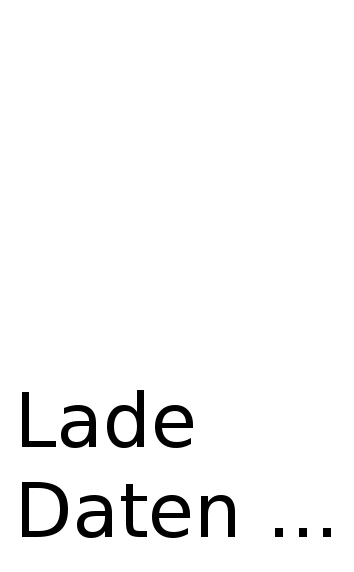
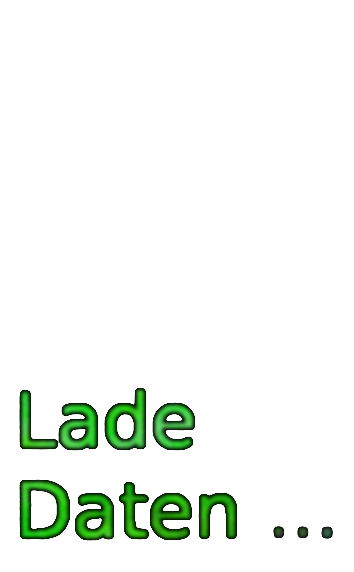
new graphics (flamely background, nicer font in splashscreen, background graphic under grundwerte again?)

diff --git a/midgard/src/table_grundwerte.cc b/midgard/src/table_grundwerte.cc
@@ -5,13 +5,10 @@
 #include <Misc/itos.h>
 #include <SelectMatching.h>
 #include <Misc/Trace.h>
-
-#include<gtkmm/label.h>
-#include<gtkmm/image.h>
-#include<gtkmm/box.h>
+#include <gtkmm/label.h>
+#include <gtkmm/image.h>
+#include <gtkmm/box.h>
 #include <bool_CheckButton.hh>
-extern Glib::RefPtr<Gdk::Pixbuf> MagusImage(const std::string &name);
-
 #include <libmagus/Ausgabe.hh>
 
 void table_grundwerte::init(midgard_CG *h)
@@ -20,6 +17,10 @@ void table_grundwerte::init(midgard_CG *h)
   hauptfenster=h;
   label=0;
 
+  static bool only_once=false;
+  if(!only_once)
+  {
+   only_once=true;
   Vstand.resize(5);
   Vstand[1]="Unfrei";
   Vstand[2]="Volk";  
@@ -31,34 +32,18 @@ void table_grundwerte::init(midgard_CG *h)
   Vhand[1]="Linkshänder"; 
   Vhand[2]="Beidhändig";  
 
-  static bool only_once=false;
-  if(!only_once)
-  {
-   only_once=true;
     bool_CheckButton *_m=manage(new bool_CheckButton(edit_werte,hauptfenster->make_gtk_box(MagusImage("EditChar-trans-50.xpm"),"Werte\neditieren",false,false)));
    _m->set_mode(false);
    eventbox_werte_edit->add(*_m);
    eventbox_werte_edit->show_all();
    _m->signal_toggled().connect(SigC::slot(*this, &table_grundwerte::on_togglebutton_edit_werte_toggled),true);
 
-#if 0   
-   if (!h->get_window()) h->realize();
-   if (h->get_window())
-   {  Glib::RefPtr<Gdk::Pixbuf> pb=MagusImage("Gross_dfr4.light");
-      Glib::RefPtr<Gdk::Pixmap> pm=Gdk::Pixmap::create(h->get_window(),pb->get_width(),pb->get_height(),h->get_window()->get_depth());
-      Glib::RefPtr<Gdk::GC> gc=Gdk::GC::create(pm);
-      pm->draw_pixbuf(gc,pb,0,0,0,0,-1,-1,Gdk::RGB_DITHER_NORMAL,0,0);
-      Glib::RefPtr<Gtk::Style> st=h->grundwerte_background->get_style()->copy();
-      st->set_bg_pixmap(Gtk::STATE_NORMAL,pm);
-      h->grundwerte_background->set_style(st);
-   }
-#endif
   }
   edit_werte=false;
-  edit_sensitive(false);
-  zeige_werte();
+  edit_sensitive(false); // noch weg ?
+  zeige_werte(); // noch weg
 }
-    
+
 void table_grundwerte::zeige_werte(bool typ2_hide)
 { 
   ManuProC::Trace _t(table_grundwerte::trace_channel,__FUNCTION__); 
@@ -116,8 +101,6 @@ void table_grundwerte::zeige_werte(bool typ2_hide)
    combo_hand->set_popdown_strings(Vhand);
    combo_hand->get_entry()->set_text(hauptfenster->getChar()->Hand());
 
-Ausgabe(Ausgabe::Debug,"Herkunft");
-Ausgabe(Ausgabe::Debug,hauptfenster->getChar()->Herkunft()->Name());
    entry_herkunft->set_text(hauptfenster->getChar()->Herkunft()->Name());
    entry_glaube->set_text(hauptfenster->getChar()->Glaube());
    entry_nameC->set_text(hauptfenster->getChar()->Name_Abenteurer());

diff --git a/midgard/src/midgard_CG_glade.cc b/midgard/src/midgard_CG_glade.cc
@@ -1,4 +1,4 @@
-// generated 2003/9/29 10:10:24 CEST by christof@puck.petig-baender.de
+// generated 2003/10/13 0:04:18 CEST by christof@puck.petig-baender.de
 // using glademm V2.0.0c_cvs
 //
 // DO NOT EDIT THIS FILE ! It was created using
@@ -773,7 +773,6 @@ midgard_CG_glade::midgard_CG_glade(
    hbox_status->show();
    handlebox_status->show();
    main_table->show();
-   midgard_CG->show();
    button9->signal_clicked().connect(SigC::slot(*this, &midgard_CG_glade::on_laden));
    button_undo->signal_clicked().connect(SigC::slot(*this, &midgard_CG_glade::on_button_undo_clicked));
    button_undo->signal_secondpressed().connect(SigC::slot(*this, &midgard_CG_glade::on_undo_secondpressed));
@@ -806,6 +805,7 @@ midgard_CG_glade::midgard_CG_glade(
    anleitung_menu->signal_activate().connect(SigC::slot(*this, &midgard_CG_glade::on_anleitung_menu_activate));
    info_credits_menu->signal_activate().connect(SigC::slot(*this, &midgard_CG_glade::on_info_credits_menu_activate));
    news_menu->signal_activate().connect(SigC::slot(*this, &midgard_CG_glade::on_news_menu_activate));
+   grundwerte_background->signal_realize().connect(SigC::slot(*this, &midgard_CG_glade::grundwerte_background), true);
    eventbox_grundwerte->signal_button_release_event().connect(SigC::slot(*this, &midgard_CG_glade::on_eventbox_grundwerte_button_release_event));
    eventbox_lernen->signal_button_release_event().connect(SigC::slot(*this, &midgard_CG_glade::on_eventbox_lernen_button_release_event));
    eventbox_steigern->signal_button_release_event().connect(SigC::slot(*this, &midgard_CG_glade::on_eventbox_steigern_button_release_event));

diff --git a/midgard/src/midgard_CG.cc b/midgard/src/midgard_CG.cc
@@ -1,4 +1,4 @@
-// $Id: midgard_CG.cc,v 1.309 2003/09/30 07:13:36 christof Exp $
+// $Id: midgard_CG.cc,v 1.310 2003/10/13 06:33:02 christof Exp $
 /*  Midgard Character Generator
  *  Copyright (C) 2001 Malte Thoma
  *
@@ -95,9 +95,6 @@ midgard_CG::midgard_CG(const std::vector<std::string> &dateien)
   os << 
 #include"NEWS.h" 
    <<'\n';
-
-  if(Programmoptionen.OberCheck(Magus_Optionen::BegruessungsFenster).active)
-     manage(new BegruessungsWindow(this));
 }
 
 midgard_CG::~midgard_CG()
@@ -219,4 +216,16 @@ void midgard_CG::on_kompletter_export_activate()
 #include <libmagus/Ausgabe.hh>
 void midgard_CG::on_schlie__en1_activate()
 {  Ausgabe(Ausgabe::Error,"Noch nicht programmiert!");
+}
+
+void midgard_CG::grundwerte_background()
+{  assert (get_window());
+   {  Glib::RefPtr<Gdk::Pixbuf> pb=MagusImage("Gross_dfr4.light");
+      Glib::RefPtr<Gdk::Pixmap> pm=Gdk::Pixmap::create(get_window(),pb->get_width(),pb->get_height(),get_window()->get_depth());
+      Glib::RefPtr<Gdk::GC> gc=Gdk::GC::create(pm);
+      pm->draw_pixbuf(gc,pb,0,0,0,0,-1,-1,Gdk::RGB_DITHER_NORMAL,0,0);
+      Glib::RefPtr<Gtk::Style> st=grundwerte_background->get_style()->copy();
+      st->set_bg_pixmap(Gtk::STATE_NORMAL,pm);
+      grundwerte_background->set_style(st);
+   }
 }

diff --git a/midgard/src/midgard.cc b/midgard/src/midgard.cc
@@ -1,4 +1,4 @@
-// $Id: midgard.cc,v 1.67 2003/10/06 15:31:28 christof Exp $
+// $Id: midgard.cc,v 1.68 2003/10/13 06:33:02 christof Exp $
 /*  Midgard Character Generator
  *  Copyright (C) 2001 Malte Thoma
  *
@@ -109,7 +109,11 @@ std::cerr << "displaying images\n";
 //   setlocale(LC_ALL, "de_DE");
    // WindowInfo erzeugen und an midgard_CG übergeben
    midgard_CG *magus=new midgard_CG(dateien);
+   magus->show(); 
+   // darf nicht eher geschehen wegen realize (background) als virtuellem callback
    delete progresswin;
+  if(Programmoptionen.OberCheck(Magus_Optionen::BegruessungsFenster).active)
+     manage(new BegruessungsWindow(magus));
    m.run(*magus);
    delete magus;
    return 0;
